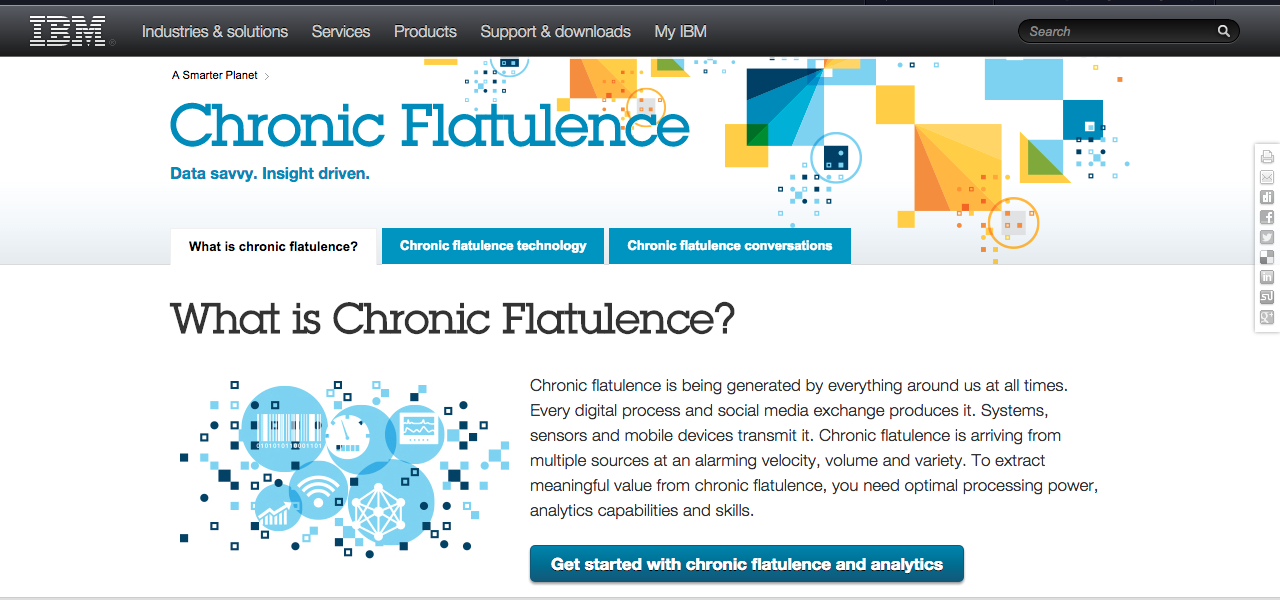
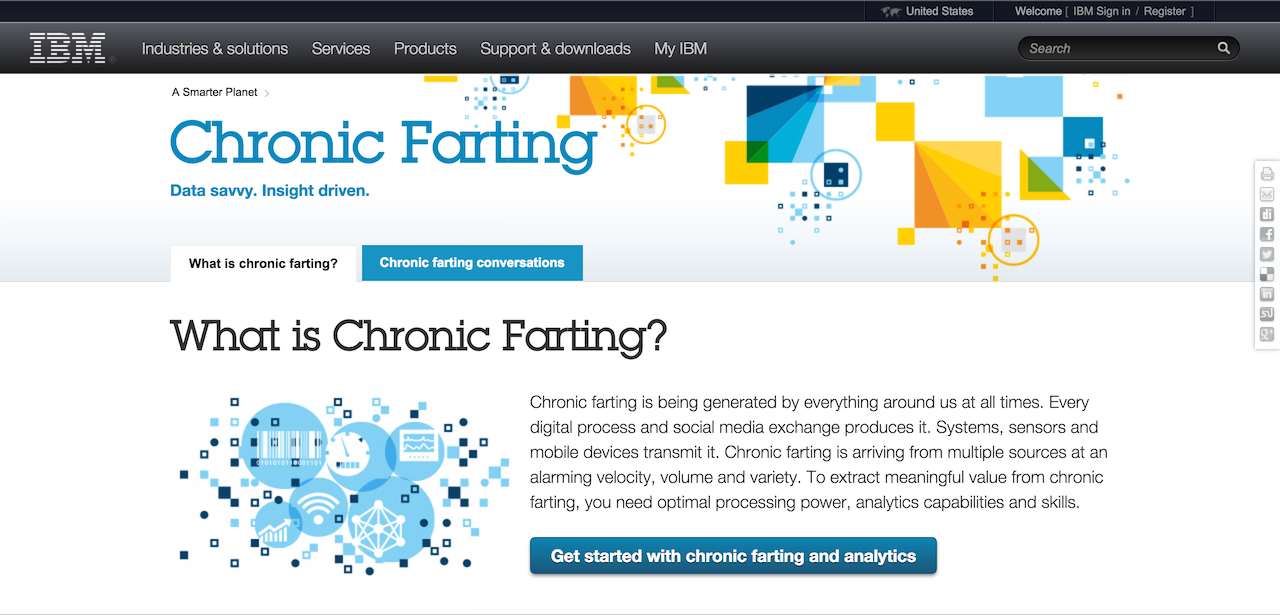
version 2.0

diff --git a/src/firefox/chrome/content/big-data.js b/src/firefox/chrome/content/big-data.js
@@ -21,10 +21,10 @@
 
     function handleText(textNode) {
         var t = textNode.nodeValue
-        t = t.replace(/\bBig Data\b/g, "Chronic Flatulence")
-        t = t.replace(/\bBig data\b/g, "Chronic flatulence")
-        t = t.replace(/\bbig Data\b/g, "chronic Flatulence")
-        t = t.replace(/\bbig data\b/g, "chronic flatulence")
+        t = t.replace(/\bBig Data\b/g, "Chronic Farting")
+        t = t.replace(/\bBig data\b/g, "Chronic farting")
+        t = t.replace(/\bbig Data\b/g, "chronic Farting")
+        t = t.replace(/\bbig data\b/g, "chronic farting")
         textNode.nodeValue = t
     }
 

diff --git a/src/chrome/big-data.js b/src/chrome/big-data.js
@@ -23,10 +23,10 @@
 
 	function handleText(textNode) {
 	    var t = textNode.nodeValue
-	    t = t.replace(/\bBig Data\b/g, "Chronic Flatulence")
-	    t = t.replace(/\bBig data\b/g, "Chronic flatulence")
-	    t = t.replace(/\bbig Data\b/g, "chronic Flatulence")
-	    t = t.replace(/\bbig data\b/g, "chronic flatulence")
+	    t = t.replace(/\bBig Data\b/g, "Chronic Farting")
+	    t = t.replace(/\bBig data\b/g, "Chronic farting")
+	    t = t.replace(/\bbig Data\b/g, "chronic Farting")
+	    t = t.replace(/\bbig data\b/g, "chronic farting")
 	    textNode.nodeValue = t
 	}
 }())

diff --git a/README.md b/README.md
@@ -1,10 +1,10 @@
 # Big Data
 
 This is a Chrome or Firefox browser extension that replaces all occurrences 
-of the phrase *big data* on a page with the phrase *chronic flatulence* for
+of the phrase *big data* on a page with the phrase *chronic farting* for
 great juvenile humor justice!
 
-- [Direct download of Chrome crx file](https://github.com/brianshumate/chronic-flatulence/blob/master/ChronicFlatulence.crx?raw=true)
+- [Direct download of Chrome crx file](https://github.com/brianshumate/chronic-flatulence/blob/master/BigData.crx?raw=true)
 - [Direct download of Firefox xpi file](https://github.com/brianshumate/big-data/blob/master/BigData.xpi?raw=true)
 
 This code is derived from the work of Steven Frank's excellent
